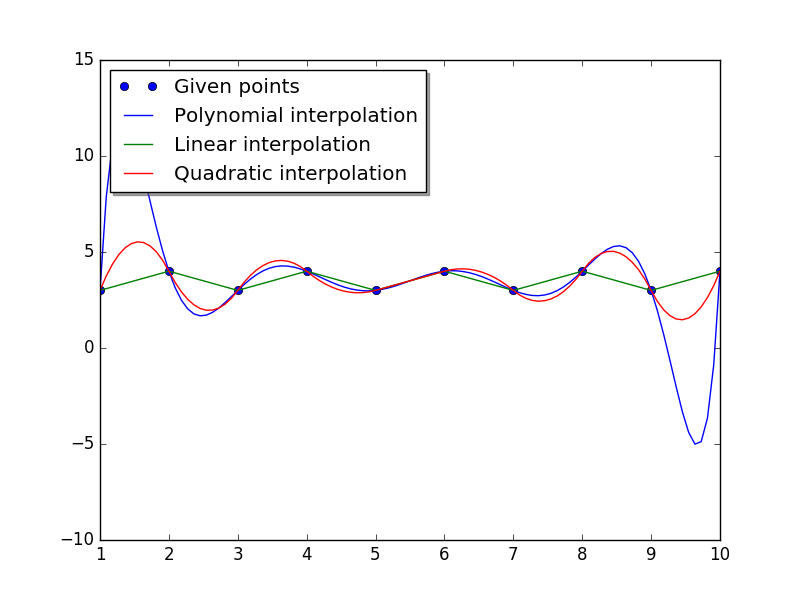
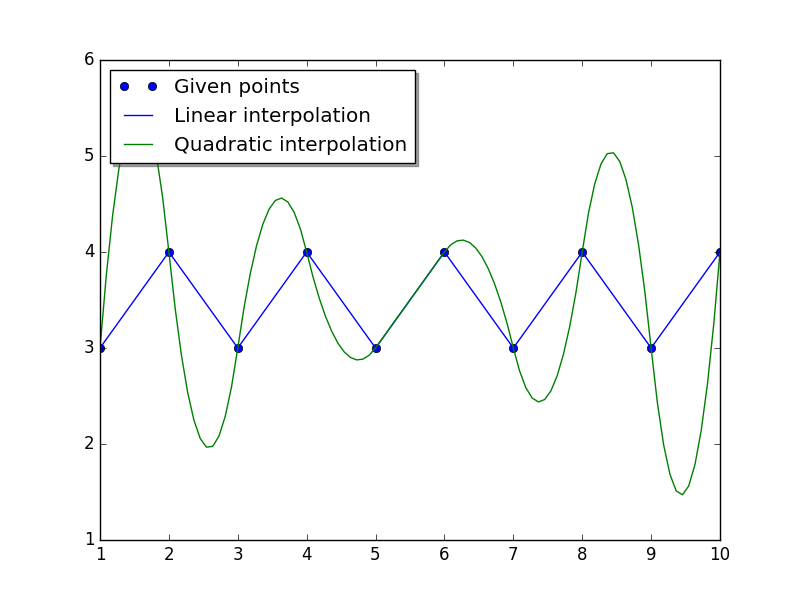
finished interpolation

diff --git a/interpolation/stepwise.py b/interpolation/stepwise.py
@@ -7,20 +7,14 @@ y = [0,0,0,0,0,1,1,1,1,1]
 z = np.linspace(x[0],len(x),100)
 mp.plot(x,y,'bo')
 
-
-# polynomial interpolation
-f1 = inter.pinterp(x,y,z)
-mp.plot(z,f1,label='Polynomial interpolation')
-
-
 # linear spline interpolation
-f2 = inter.linterp(x,y,z)
-mp.plot(z,f2,label='Linear interpolation')
+f1 = inter.linterp(x,y,z)
+mp.plot(z,f1,label='Linear interpolation')
 
 
 # quadratic spline interpolation
-f3 = inter.qinterp(x,y,z)
-mp.plot(z,f3,label='Quadratic interpolation')
+f2 = inter.qinterp(x,y,z)
+mp.plot(z,f2,label='Quadratic interpolation')
 
 # move legend to upper left, add shadows
 legend = mp.legend(loc='upper left', shadow=True, fontsize='large')

diff --git a/interpolation/main.py b/interpolation/main.py
@@ -12,11 +12,11 @@ mp.plot(x,y,'bo',label='Given points')
 
 # linear spline interpolation
 f1 = inter.linterp(x,y,z)
-mp.plot(z,f2,label='Linear interpolation')
+mp.plot(z,f1,label='Linear interpolation')
 
 # quadratic spline interpolation
 f2 = inter.qinterp(x,y,z)
-mp.plot(z,f3,label='Quadratic interpolation')
+mp.plot(z,f2,label='Quadratic interpolation')
 
 # move legend to upper left, add shadows
 legend = mp.legend(loc='upper left', shadow=True, fontsize='large')
